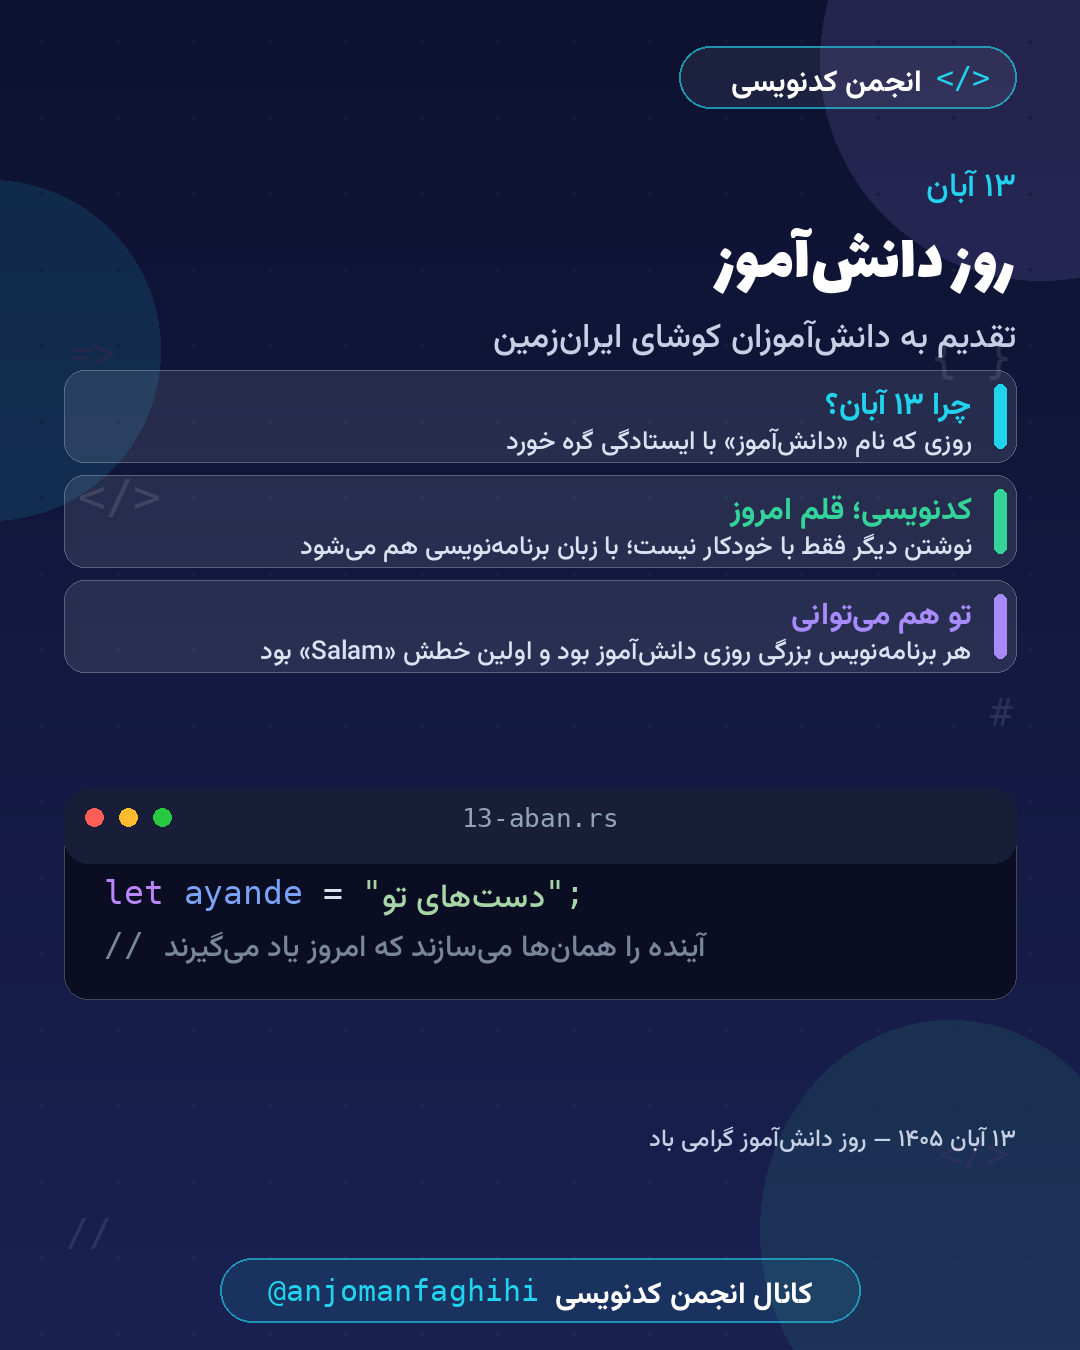
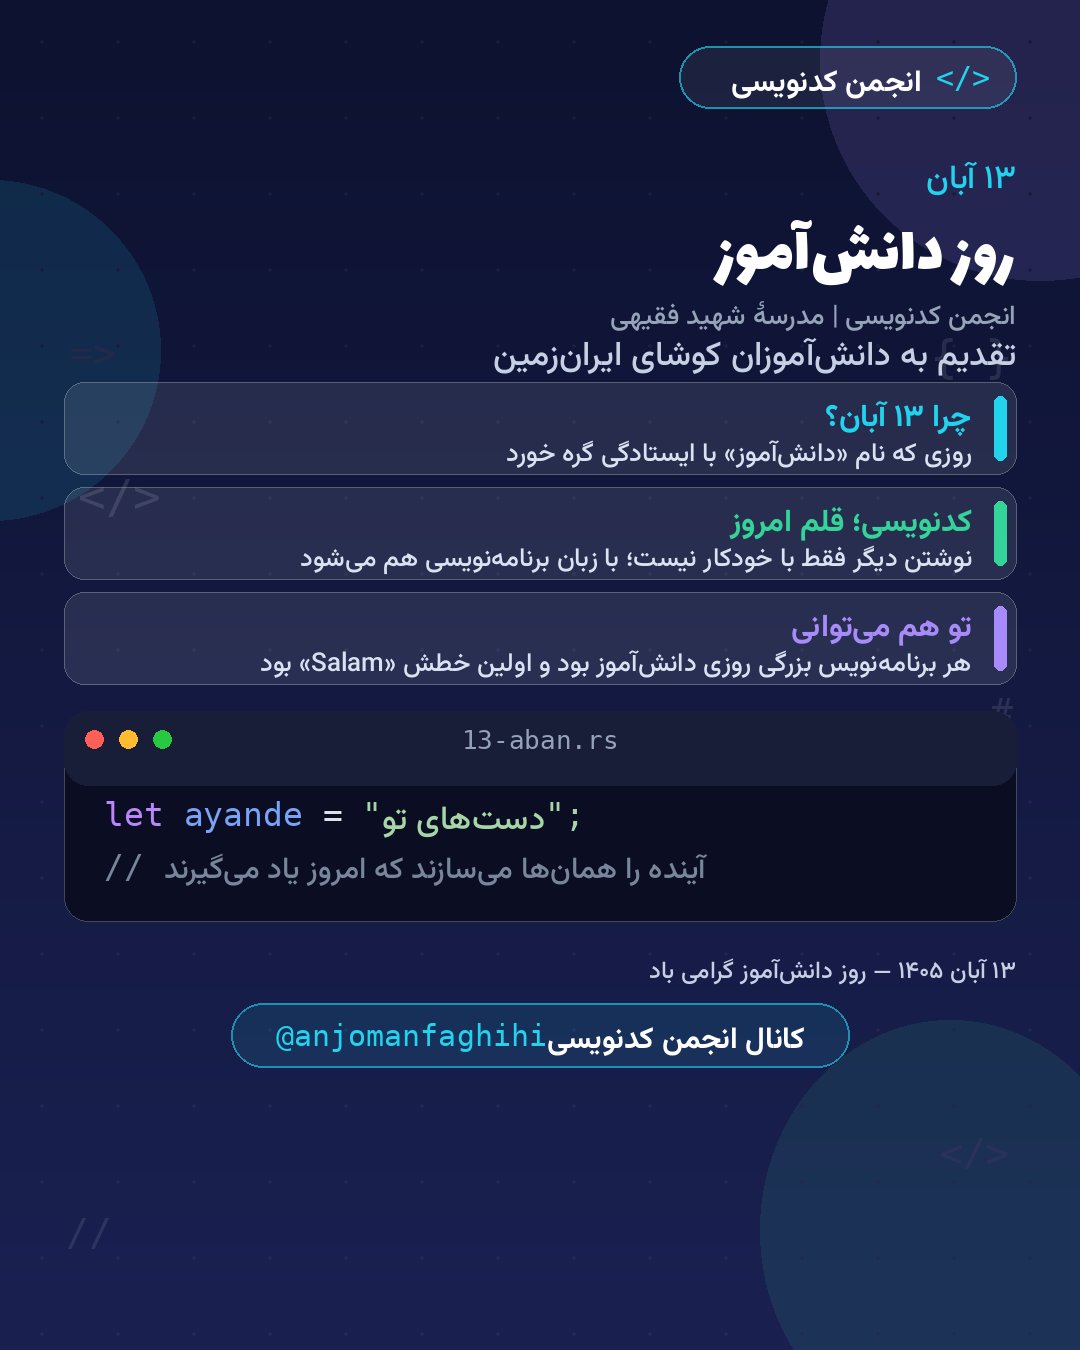
gardesh 20: khod-tarim (bootstrap env-restore + bashrc hook + 2 cron-e sobhgahi) + nam-e madrese zir-e onvan-e tamame poster-ha (tas-e malek) + halghe item-e post-e kharazmi (#moarrefi_moshahir) + rahnamaye-tag (sanad-e rasmi hestegh) + tozih tagvim dar plan.md

diff --git a/scripts/poster_lib.py b/scripts/poster_lib.py
@@ -42,6 +42,7 @@ CHANNEL = {
     "brand_name": "انجمن کدنویسی",
     "footer_label": "کانال انجمن کدنویسی",
     "handle": "@anjomanfaghihi",
+    "school": "مدرسهٔ شهید فقیهی",
 }
 LOGO_PATH = Path("")
 
@@ -54,6 +55,7 @@ def set_channel(cfg):
         "brand_name": cfg.get("brand_name", "انجمن کدنویسی"),
         "footer_label": cfg.get("footer_label", "کانال انجمن کدنویسی"),
         "handle": cfg.get("handle", "@anjomanfaghihi"),
+        "school": cfg.get("school", ""),
     }
     logo = cfg.get("_logo_path")
     LOGO_PATH = Path(logo) if logo else Path("")
@@ -324,14 +326,20 @@ def render(spec, out_path, brand=True):
     if spec.get("lesson_no"):
         lesson_chip(d, 46, spec["lesson_no"])
     # فاصلهٔ استاندارد بین ردیف بالا و متنها (اصلاح بازخورد: نزدیک نبودن برند به متن)
-    y = 46 + 62 + 54
+    y = 46 + 62 + 46
     rtl_right(d, spec["series_label"], font("fa_med", 33), ACCENT, W - MARGIN, y)
     y += 50
     tsize = spec.get("title_size", 62)
     rtl_right(d, spec["title"], font("fa_title", tsize), WHITE, W - MARGIN, y)
-    y += int(tsize * 1.22) + 20
+    y += int(tsize * 1.22) + 12
+    # ← بازخورد مالک (۱۴۰۵-۰۸-۰۲): «اسم زیر عنوان» — خط نام انجمن و مدرسه
+    # درست زیر عنوانِ همهٔ پوسترها (فقط نسخهٔ برند؛ نسخهٔ clean بدون نام میماند)
+    if brand and CHANNEL.get("school"):
+        rtl_right(d, f"{CHANNEL['brand_name']} | {CHANNEL['school']}",
+                  font("fa_med", 27), MUTED, W - MARGIN, y)
+        y += 34
     rtl_right(d, spec["subtitle"], font("fa_med", 34), SUB, W - MARGIN, y)
-    y += 58
+    y += 52
     sections = spec["sections"] if brand else spec.get("clean_sections", spec["sections"])
     for sec in sections:
         if sec["type"] == "code":
@@ -370,6 +378,8 @@ def spec_text(spec):
     if spec.get("lesson_no"):
         head += f" — درس {fa_num(spec['lesson_no'])}"
     L.append(head)
+    if CHANNEL.get("school"):
+        L.append(f"{CHANNEL['brand_name']} | {CHANNEL['school']}")
     L.append("")
     L.append(spec["subtitle"])
     L.append("")

diff --git a/channels/coding/content/queue/lessons/rust-dars-05-moteghayer/spec.py b/channels/coding/content/queue/lessons/rust-dars-05-moteghayer/spec.py
@@ -15,7 +15,7 @@ SPEC = {
     "subtitle": "پیشفرضِ Rust: هیچچیز بیاجازه عوض نمیشود",
     "clean_footer": "آموزش Rust از صفر",
     "sections": [
-        {"type": "code", "name": "src/main.rs", "lines": [
+        {"type": "code", "name": "src/main.rs", "lh": 46, "lines": [
             {"segs": [T("let", FN), T(" rekord = ", FG), T("12", NUM), T(";", FG), T("      // rekord-e bazi", CMT)]},
             {"segs": [T("let mut", FN), T(" emtiaz = ", FG), T("10", NUM), T(";", FG), T("    // emtiaz-e bazi", CMT)]},
             {"segs": [T("emtiaz = emtiaz + ", FG), T("5", NUM), T(";", FG)]},

diff --git a/channels/coding/content/plan.md b/channels/coding/content/plan.md
@@ -38,6 +38,10 @@
 هشتگ ثابت پای همه پستها: `#انجمن_کدنویسی`
 هشتگ موضوعی متناسب با موضوع هر پست در کپشن میآید.
 
+> **⚠ تصمیم مالک (۱۴۰۵-۰۸-۰۲):** هر پست «هشتگ مناسب آیتم» خودش را دارد
+> (مثل `#معرفی_مشاهیر` برای چهرهها) — جدول کامل: `docs/rahnamaye-tag.md`
+> (همان «راهنمای تگ» که شیوهنامه گفته با مستندات اثر ارسال شود).
+
 ---
 
 ## ۲. شمارهگذاری و مستندسازی طبق شیوهنامه
@@ -77,19 +81,19 @@
 
 ---
 
-## ۴. تقویم انتشار هفتگی (روزنگار)
+## ۴. تقویم انتشار هفتگی (روزنگار — نسخهٔ «روزی یک پست»)
 
-قاعده طلایی: **هر روز ۱ تا ۲ پست، حداکثر ۳ پست — هرگز بیشتر.**
+**⚠ تصمیم مالک (۱۴۰۵-۰۸-۰۱): «روزی یک پست از آیتمهای مختلف»** — تقویم قبلی
+(متنوع در شنبه/دوشنبه/پنجشنبه) لغو شد؛ حالا هر روز دقیقاً یک پست:
 
-| روز | ساعت ۱۰:۰۰ صبح | ساعت ۱۹:۰۰ عصر |
+| روز | ساعت | آیتم |
 |---|---|---|
-| شنبه | درس Rust (بعدی) | پست متنوع (ترویجی) |
-| یکشنبه | درس Rust (بعدی) | — |
-| دوشنبه | درس Rust (بعدی) | — |
-| سهشنبه | درس Rust (بعدی) | پست متنوع (رویداد/چالش) |
-| چهارشنبه | درس Rust (بعدی) | — |
-| پنجشنبه | درس Rust (بعدی) | پست متنوع (معرفی/اطلاعیه/خلاقانه) |
-| جمعه | — استراحت، مرور و پاسخ به تمرینها — | — |
+| شنبه تا پنجشنبه | ۱۰:۰۰ | درس Rust (صف `queue/lessons/`) |
+| جمعه | ۱۹:۰۰ | پست متنوع (صف `queue/variety/`) — جمعه بیدرس است |
+| روزهای مناسبت | ۰۹:۳۰ | پیام مناسبتی (گیت date.txt — استثنای نادرِ روز دوم) |
+| آخر هر ماه | ۱۷:۳۰ | نشریهٔ ماهانه (استثنای نادرِ روز دوم) |
+
+سقف ۳ پست در روز همیشه رعایت است؛ عادی = ۱ پست.
 
 - «درس Rust» از صف `content/queue/lessons/` و «پست متنوع» از `content/queue/variety/`
   بهنوبت از دستههای ترویجی/رویداد/معرفی/اطلاعیه/خلاقانه انتخاب میشود
@@ -123,8 +127,9 @@
 ## ۶. چکلیست پیش از انتشار هر پست
 
 1. تصویر برند + تصویر clean هر دو رندر و **بازبینی بصری** شده باشند (متن فارسی راستبهچپ درست، فاصلهها تمیز، متنهای پایین واضح)
+1-الف. **خط نام زیر عنوان** («انجمن کدنویسی | مدرسهٔ شهید فقیهی» — تصمیم مالک ۱۴۰۵-۰۸-۰۲) روی نسخهٔ برند هست و روی clean نیست
 2. متن فارسی تصویر در `text.md` بایگانی شده باشد
-3. کپشن: ۲–۳ جمله توضیح + لینک کانال (آدرس تأییدشدهٔ روز انتشار) + هشتگهای **موضوعی** — بدون نام دسته، بدون کد لاتین، بدون برچسب اداری
+3. کپشن: ۲–۳ جمله توضیح + لینک کانال (آدرس تأییدشدهٔ روز انتشار) + هشتگ پایه + **هشتگ آیتم طبق راهنمای تگ** + هشتگ موضوعی — بدون نام دسته، بدون کد لاتین، بدون برچسب اداری؛ حداکثر ۱۰۲۴ نویسه
 4. روی عکس و متن **هیچ اشارهٔ دستهبندی** نباشد (قاعدهٔ دائمی)
 5. `meta.json` با دستهٔ داخلی و ارجاع به بند شیوهنامه ثبت شده باشد
 6. آمار بهروز شده و همهچیز commit و push شده باشد

diff --git a/docs/rahnamaye-tag.md b/docs/rahnamaye-tag.md
@@ -1,0 +1,43 @@
+# راهنمای تگهای (#) کانال انجمن کدنویسی — سند رسمی هشتگگذاری
+
+**مبنای الزام در شیوهنامه (هشتمین دوره، ۱۴۰۵-۱۴۰۴):**
+- «در پیامهای ارسالی داخل کانال حتماً از تگ # مناسب استفاده شود، راهنمای تگهای
+  مورد استفاده در مستندات اثر ارسال شود.» (شرایط اختصاصی اثر)
+- نمونبرگ داوری: «نظم و انسجام سامانه — استفاده از تگ # برای دستهبندی مطالب» (۵ امتیاز)
+
+این سند همان «راهنمای تگ» است و در بستهٔ مستندات اثر ارائه میشود.
+**قاعدهٔ دائمی:** هشتگها همیشه *موضوعی*اند؛ نام دستهبندی داخلی (ترویجی، آموزشی،
+رویداد، اطلاعیه، خلاقانه) هرگز بهعنوان هشتگ یا متن روی عکس/کپشن نمیآید.
+
+## جدول هشتگ هر آیتم
+
+| نوع آیتم (بند شیوهنامه) | هشتگ ثابت آیتم | هشتگهای موضوعی مکمل |
+|---|---|---|
+| درس «Rust از صفر» (ترویج/آموزش — بند ۱) | `#آموزش_راست` | `#الگوریتم`، `#برنامه_نویسی` |
+| معرفی مشاهیر علم و کامپیوتر (بند ۱ — تولید محتوا) | `#معرفی_مشاهیر` | نام شخص (`#خوارزمی`) + حوزه (`#الگوریتم`) |
+| معرفی کتاب/منبع/سایت (بند ۵) | `#معرفی_کتاب` | نام کتاب/منبع |
+| خبر علمی/مسابقات (بند ۱) | `#خبر_کدنویسی` | `#مسابقات_کدنویسی` |
+| چالش و تمرین هفتگی (رویداد) | `#چالش_کدنویسی` | موضوع چالش (`#متغیرها`) |
+| فعالیت خلاقانه (بند ۴ — بازی، عکسنوشتهٔ خلاق) | `#فعالیت_خلاقانه` | `#بازی_مرورگری`، `#رفیق_مار` |
+| نشریهٔ ماهانه (بند ۲) | `#نشریه_انجمن` | شماره/ماه (`#آبان_۱۴۰۵`) |
+| پیام مناسبتی (جدول داوری: پیامهای مناسبتی) | `#مناسبت` | نام مناسبت (`#روز_کتاب`) |
+| گرایشهای مسابقات (معرفی) | `#مسابقات_کدنویسی` | `#طراحی_وب`، `#هوش_مصنوعی`، `#بازی_سازی`، `#دستگاه_های_هوشمند` |
+
+## قواعد اجرا
+
+1. **هشتگ پایه:** همهٔ پستها `#انجمن_کدنویسی` را دارند.
+2. **هشتگ آیتم:** هر پست دقیقاً «یک» هشتگ ثابت آیتم از جدول بالا دارد — همان
+   «هشتگ مناسب آیتم» طبق دستور مالک (۱۴۰۵-۰۸-۰۲).
+3. **هشتگ موضوعی:** ۱ تا ۳ هشتگ موضوعی مرتبط با محتوای همان پست.
+4. **سقف:** جمع هشتگها در هر پست ۳ تا ۵ عدد؛ بیشتر نشود (نظم داوری).
+5. **سازگاری:** هشتگها بدون نیمفاصله نوشته میشوند (`#معرفی_مشاهیر` نه
+   «#معرفیمشاهیر») و فارسیاند مگر نام علمی لاتین باشد.
+6. **بازبینی:** پیش از هر انتشار، کپشن با همین سند چک میشود؛ تغییر هشتگ آیتم
+   فقط با تصمیم مالک و با ویرایش همین سند.
+
+## پیوست — وضعیت اعمال روی پستهای منتشرشده
+
+- پست ۰۱۳ «خوارزمی؛ پدر الگوریتم» (پیام ۴۹، ۱۴۰۵-۰۸-۰۱): هشتگ آیتم
+  `#معرفی_مشاهیر` با editMessageCaption به کپشن زنده اضافه شد (۴۵۹ نویسه ≤۱۰۲۴)
+  و کپشن آرشیو همگام شد.
+- پستهای آینده: هشتگ آیتم از صفساز طبق جدول بالا میآید.

diff --git a/channels/coding/content/queue/mansabet/abane13-roz-daneshamooz/text.md b/channels/coding/content/queue/mansabet/abane13-roz-daneshamooz/text.md
@@ -1,5 +1,6 @@
 # روز دانشآموز
 ۱۳ آبان
+انجمن کدنویسی | مدرسهٔ شهید فقیهی
 
 تقدیم به دانشآموزان کوشای ایرانزمین
 
@@ -8,11 +9,9 @@
 - **تو هم میتوانی**: هر برنامهنویس بزرگی روزی دانشآموز بود و اولین خطش «Salam» بود
 
 فایل «13-aban.rs»:
-```python
+```rust
 let ayande = "دستهای تو";
 // آینده را همانها میسازند که امروز یاد میگیرند
 ```
 
 نکته: ۱۳ آبان ۱۴۰۵ — روز دانشآموز گرامی باد
-
-دستهٔ محتوا: اطلاعیه

diff --git a/channels/coding/content/queue/mansabet/shabe-yalda/text.md b/channels/coding/content/queue/mansabet/shabe-yalda/text.md
@@ -1,5 +1,6 @@
 # شب یلدا
 ۳۰ آذر
+انجمن کدنویسی | مدرسهٔ شهید فقیهی
 
 بلندترین شب سال — گرم با هندوانه، حافظ و یک چالش کد
 
@@ -8,12 +9,10 @@
 - **مرور سال**: آخر سال میلادی نزدیک است؛ ببین از مهر تا حالا چه یاد گرفتی و چه ساختی
 
 فایل «yalda.rs»:
-```python
+```rust
 let shab = "deraz";
 let kod = "garm";
 // شب بلند است، اما کدنویس از آن نمیترسد
 ```
 
 نکته: یلدا مبارک — ۳۰ آذر ۱۴۰۵
-
-دستهٔ محتوا: اطلاعیه

diff --git a/channels/coding/content/queue/mansabet/fatemeh-sa-1448/text.md b/channels/coding/content/queue/mansabet/fatemeh-sa-1448/text.md
@@ -1,5 +1,6 @@
 # شهادت حضرت فاطمهٔ زهرا (س)
 ۳ جمادیالثانی ۱۴۴۸
+انجمن کدنویسی | مدرسهٔ شهید فقیهی
 
 تسلیت به محضر امام زمان (عج) و همهٔ شیعیان
 
@@ -8,5 +9,3 @@
 - **به یاد او**: به رسم احترام، امروز کانال انجمن پرشور نیست؛ فقط این یادبود
 
 نکته: التماس دعا — انجمن علمیپژوهشی کدنویسی
-
-دستهٔ محتوا: اطلاعیه

diff --git a/channels/coding/content/queue/mansabet/abane24-roz-ketab/text.md b/channels/coding/content/queue/mansabet/abane24-roz-ketab/text.md
@@ -1,5 +1,6 @@
 # روز کتاب و کتابخوانی
 ۲۴ آبان
+انجمن کدنویسی | مدرسهٔ شهید فقیهی
 
 حتی اگر کتاب، صفحههایش روی مانیتور باشد
 
@@ -9,5 +10,3 @@
 - **پیشنهاد شما**: کتاب خوبی میشناسی؟ در کانال معرفیاش کن؛ با نام تو منتشر میشود
 
 نکته: ۲۴ آبان ۱۴۰۵ — روز کتاب و کتابخوانی
-
-دستهٔ محتوا: اطلاعیه

diff --git a/channels/coding/content/queue/variety/poster-gorayesh/text.md b/channels/coding/content/queue/variety/poster-gorayesh/text.md
@@ -1,5 +1,6 @@
 # پنج مسیر رقابت
 ویژهٔ مسابقات کدنویسی
+انجمن کدنویسی | مدرسهٔ شهید فقیهی
 
 گرایشهای مسابقات کدنویسی جشنواره
 
@@ -10,5 +11,3 @@
 - **بازیسازی**: بازی آموزشی با موتورهای بازیسازی
 
 نکته: تیم دو نفره — از یک منطقه، یک دوره و یک جنسیت (شرایط عمومی مسابقات)
-
-دستهٔ محتوا: ترویجی

diff --git a/channels/coding/content/queue/mansabet/azare16-roz-daneshjoo/text.md b/channels/coding/content/queue/mansabet/azare16-roz-daneshjoo/text.md
@@ -1,5 +1,6 @@
 # روز دانشجو
 ۱۶ آذر
+انجمن کدنویسی | مدرسهٔ شهید فقیهی
 
 از نیمکت مدرسه تا صندلی دانشگاه — یک راه پیوسته
 
@@ -9,5 +10,3 @@
 - **شرط ورود**: کنکور ریاضی و تجربی؛ برنامهنویسی همین حالا هم برای درسهایت مفید است
 
 نکته: ۱۶ آذر ۱۴۰۵ — روز دانشجو
-
-دستهٔ محتوا: اطلاعیه

diff --git a/channels/coding/content/queue/variety/manabe-rasmi/text.md b/channels/coding/content/queue/variety/manabe-rasmi/text.md
@@ -1,5 +1,6 @@
 # منابع رسمی خبر
 اطلاعرسانی انجمن کدنویسی
+انجمن کدنویسی | مدرسهٔ شهید فقیهی
 
 تازههای مسابقات را از کجا بفهمیم؟
 
@@ -9,5 +10,3 @@
 - **اصول ما**: دقت، صبر و اعتماد فقط به منبع رسمی
 
 نکته: هر خبر مهم، با هشتگ اطلاعیه اینجا اعلام میشود
-
-دستهٔ محتوا: اطلاعیه

diff --git a/channels/coding/content/queue/lessons/rust-dars-05-moteghayer/text.md b/channels/coding/content/queue/lessons/rust-dars-05-moteghayer/text.md
@@ -1,5 +1,6 @@
 # متغیرها: let و let mut
 آموزش Rust از صفر — درس ۵
+انجمن کدنویسی | مدرسهٔ شهید فقیهی
 
 پیشفرضِ Rust: هیچچیز بیاجازه عوض نمیشود
 
